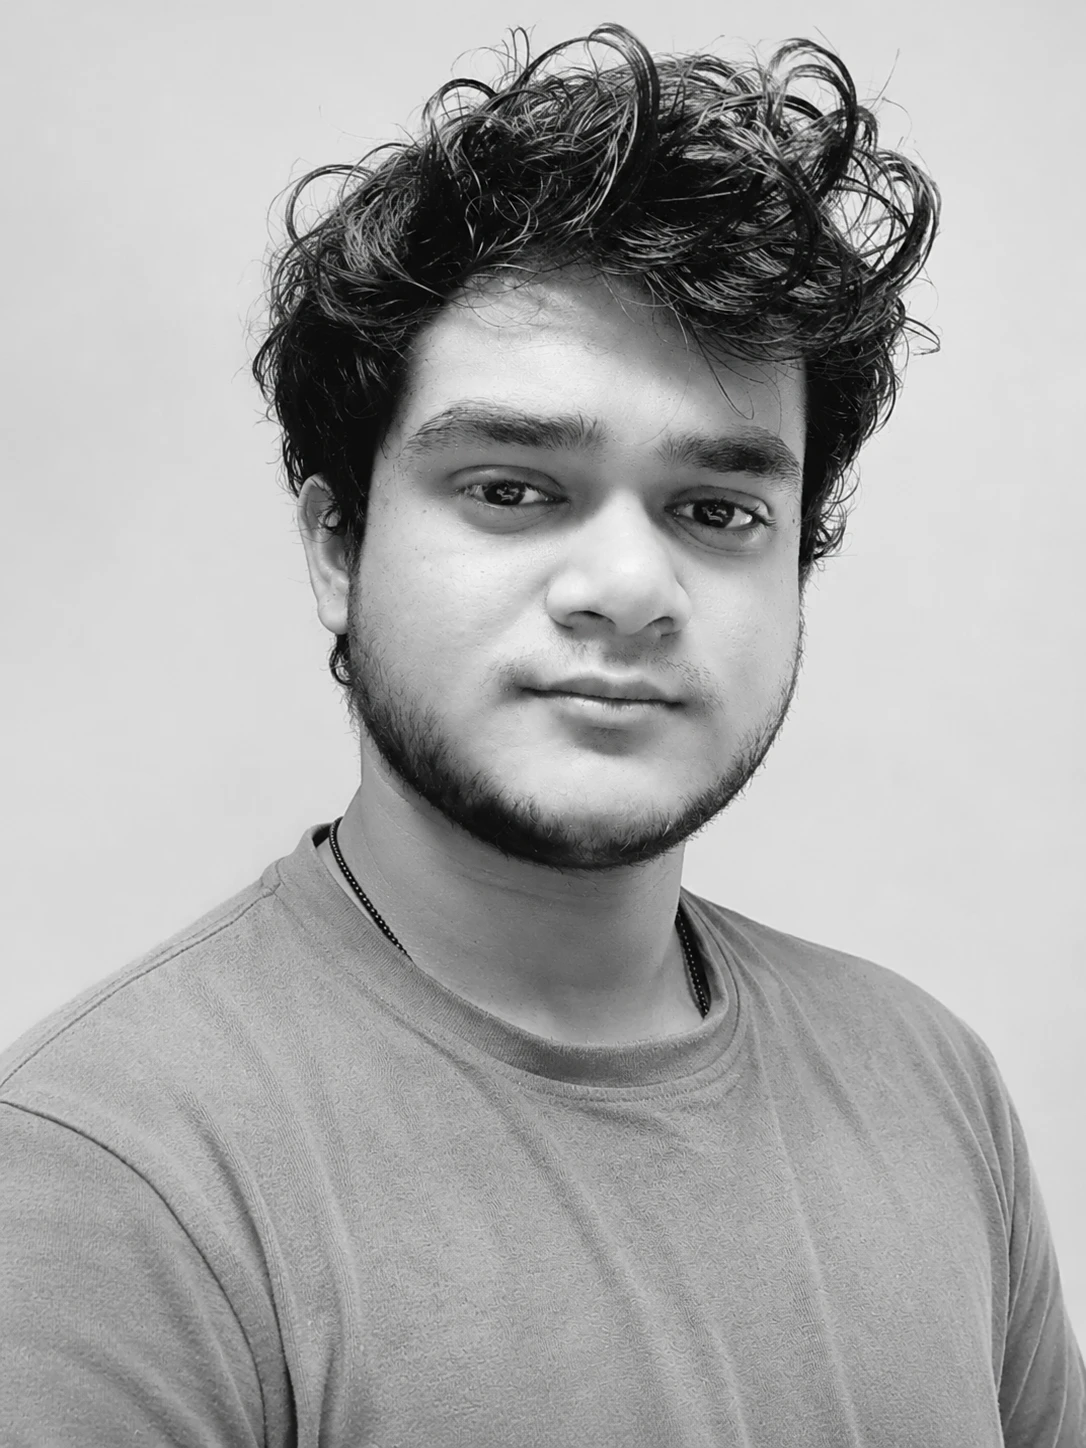
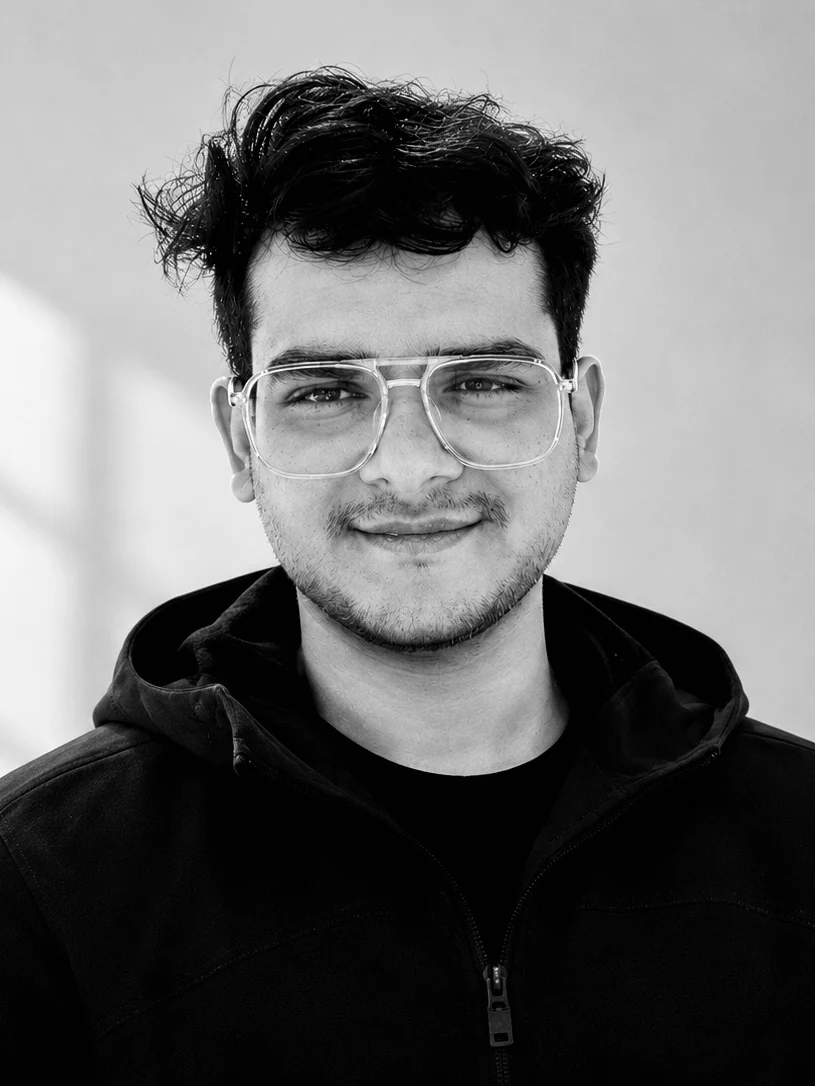
Update hero portrait with new photo
Claude-Session: https://claude.ai/code/session_01FnjkW9GUGg9wguq6Z4dWWJ

diff --git a/index.html b/index.html
@@ -88,7 +88,7 @@
       </div>
       <div class="hero-visual" aria-hidden="true">
         <div class="portrait" id="portrait">
-          <img src="portrait.webp?v=2" alt="" width="1086" height="1448" decoding="async" fetchpriority="high" />
+          <img src="portrait.webp?v=3" alt="" width="815" height="1086" decoding="async" fetchpriority="high" />
           <span class="portrait-rgb">
             <span class="portrait-layer is-red"></span>
             <span class="portrait-layer is-cyan"></span>

diff --git a/styles.css b/styles.css
@@ -524,7 +524,7 @@ section {
 }
 
 .portrait-layer {
-  background-image: url("portrait.webp?v=2");
+  background-image: url("portrait.webp?v=3");
   background-size: cover;
   background-position: 50% 0;
   opacity: 0;
